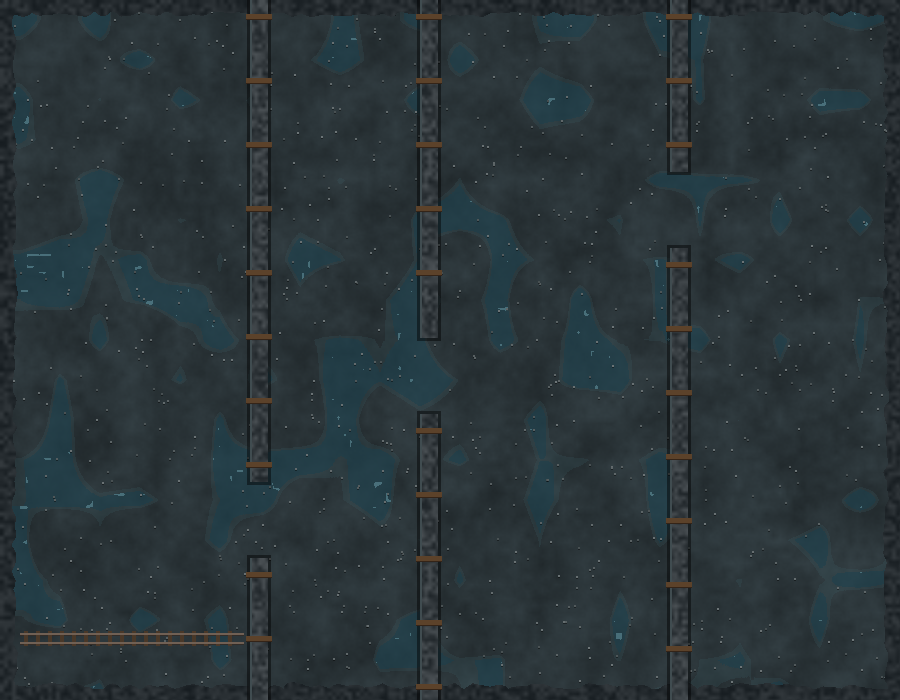
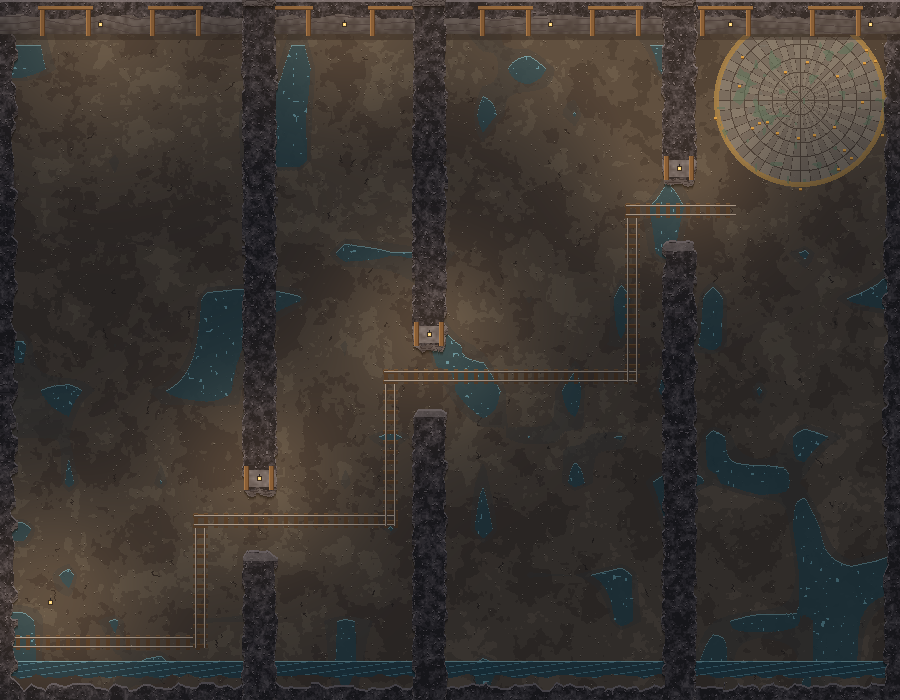
Шахта: скальные стены с крепью, рельсы, арена Стража, фонари, предметы с коллизией, полумрак; трава и блики воды больше не рисуются на мосту

diff --git a/tools/art/mine.py b/tools/art/mine.py
@@ -1,8 +1,10 @@
-"""Затопленная шахта: пол с лужами и рельсами, скальные перемычки с крепью, вход у Пристани (затоплен / открыт).
+"""Затопленная шахта: пол, скальные стены с крепью, рельсы, арена Стража, вход у Пристани.
 
 Запуск:  python tools/art/mine.py [--preview PATH]
 Геометрия берётся из scripts/adventure_sites.gd (MINE, MINE_WALLS, MINE_EXIT) — меняя её там, перегенерируй.
+Пишет: assets/custom/world/mine_floor.png, mine_gate.png и mine.json (фонари и предметы с коллизией).
 """
+import json
 import re
 import sys
 from pathlib import Path
@@ -15,71 +17,240 @@ OUT = ROOT / "assets" / "custom" / "world"
 SRC = (ROOT / "scripts" / "adventure_sites.gd").read_text(encoding="utf-8")
 
 
-def _rect(text):
+def _nums(text):
     return [float(v) for v in re.findall(r"[-\d.]+", text)]
 
 
-MINE = _rect(re.search(r"MINE := Rect2\(([^)]*)\)", SRC).group(1))
-WALLS = [_rect(m) for m in re.findall(r"Rect2\(([^)]*)\)", re.search(r"MINE_WALLS := \[(.*?)\]", SRC, re.S).group(1))]
-EXIT = _rect(re.search(r"MINE_EXIT := Vector2\(([^)]*)\)", SRC).group(1))
+MINE = _nums(re.search(r"MINE := Rect2\(([^)]*)\)", SRC).group(1))
+WALLS = [_nums(m) for m in re.findall(r"Rect2\(([^)]*)\)", re.search(r"MINE_WALLS := \[(.*?)\]", SRC, re.S).group(1))]
+EXIT = _nums(re.search(r"MINE_EXIT := Vector2\(([^)]*)\)", SRC).group(1))
+X0, Y0, W, H = [int(v) for v in MINE]
+TOP_FACE = 34                     # северная стена: верх скалы + освещённый откос (непроходимо, см. world_data.gd)
+ARENA = (3400, 300, 84)           # круг Колокольного Стража
+
+# Рельсы идут через проёмы перемычек: только прямые отрезки (в пикселях рельсы по диагонали выглядят плохо).
+RAIL = [(2612, 842), (2800, 842), (2800, 720), (2990, 720), (2990, 576), (3232, 576), (3232, 410), (3330, 410)]
+
+# Фонари: на северном откосе и над проёмами (мировые координаты; радиус свечения).
+LIGHTS = [(2700, 222, 70), (2944, 222, 60), (3150, 222, 66), (3330, 222, 60), (3470, 222, 60),
+          (2859, 676, 58), (3029, 532, 58), (3279, 366, 58), (2650, 800, 64)]
+
+# Предметы сцены (props): у стен и в углах, не на рельсах и не на постах врагов. r — радиус коллизии.
+PROPS = [
+    ("crate", 2628, 262, 10), ("barrel", 2652, 258, 9), ("cart", 2770, 300, 15), ("sacks", 2822, 268, 10),
+    ("log", 2690, 480, 11), ("rock", 2628, 620, 10), ("crate", 2830, 880, 10),
+    ("barrel", 2888, 262, 9), ("crate", 2996, 266, 10), ("sacks", 2890, 520, 10), ("rock", 2900, 872, 10),
+    ("crate", 3060, 262, 10), ("crate", 3083, 270, 10), ("barrel", 3246, 262, 9), ("log", 3205, 820, 11),
+    ("rock", 3060, 872, 10), ("pillar_broken", 3140, 720, 11),
+    ("pillar_broken", 3318, 560, 11), ("pillar_broken", 3478, 560, 11), ("barrel", 3312, 876, 9),
+    ("rock", 3474, 870, 10), ("sacks", 3480, 690, 10),
+]
 
 
 def noise(w, h, scale, seed):
-    """Сглаженный шум: случайная сетка, растянутая билинейно."""
+    """Сглаженный шум 0..1: случайная сетка, растянутая билинейно."""
     rng = np.random.default_rng(seed)
     gw, gh = int(w / scale) + 2, int(h / scale) + 2
     g = Image.fromarray((rng.random((gh, gw)) * 255).astype(np.uint8))
     return np.asarray(g.resize((int(gw * scale), int(gh * scale)), Image.BILINEAR), dtype=float)[:h, :w] / 255
 
 
-def floor():
-    x0, y0, w, h = [int(v) for v in MINE]
-    n = noise(w, h, 24, 1) * 0.6 + noise(w, h, 7, 2) * 0.3 + noise(w, h, 2, 3) * 0.1
-    base = np.array([44, 54, 58], float)
-    img = base[None, None, :] * (0.72 + 0.5 * n[..., None])
-    wet = noise(w, h, 40, 4)                                  # лужи: тёмная вода с бликом
-    pool = wet > 0.76
-    img[pool] = img[pool] * 0.45 + np.array([30, 70, 84]) * 0.55
-    edge = (wet > 0.72) & ~pool
-    img[edge] = img[edge] * 0.8 + np.array([60, 96, 104]) * 0.2
-    shine = pool & (noise(w, h, 6, 5) > 0.9)
-    img[shine] = img[shine] * 0.5 + np.array([110, 160, 172]) * 0.5
-    rng = np.random.default_rng(6)                            # щебень
-    for _ in range(900):
-        x, y = rng.integers(0, w - 3), rng.integers(0, h - 3)
-        c = rng.integers(70, 110)
-        img[y:y + 2, x:x + 2] = (c, c + 8, c + 10)
-        img[y + 2, x:x + 2] *= 0.6
-    rail_y = int(EXIT[1] - y0) + 18                           # рельсы от входа вглубь первой выработки
-    for ry in (rail_y, rail_y + 9):
-        img[ry:ry + 2, 20:int(WALLS[0][0] - x0) - 6] = (112, 96, 84)
-        img[ry + 2, 20:int(WALLS[0][0] - x0) - 6] = (50, 44, 40)
-    for sx in range(24, int(WALLS[0][0] - x0) - 10, 12):     # шпалы
-        img[rail_y - 2:rail_y + 13, sx:sx + 4] = (74, 56, 40)
-        img[rail_y:rail_y + 2, sx:sx + 4] = (112, 96, 84)
-        img[rail_y + 9:rail_y + 11, sx:sx + 4] = (112, 96, 84)
-    border = 10                                               # скальный край выработки
-    yy, xx = np.mgrid[0:h, 0:w]
-    dist = np.minimum.reduce([xx, yy, w - 1 - xx, h - 1 - yy]).astype(float)
-    rock = dist < border + noise(w, h, 9, 7) * 8
-    img[rock] = np.array([22, 28, 32]) + 30 * noise(w, h, 4, 8)[rock][:, None]
-    for wx, wy, ww, wh in WALLS:                              # перемычки: скала, по краям крепь
-        ax, ay = int(wx - x0), int(wy - y0)
+YY, XX = np.mgrid[0:H, 0:W]
+N1, N2, N3 = noise(W, H, 30, 1), noise(W, H, 8, 2), noise(W, H, 2.5, 3)
+
+
+def paint(img, mask, col, k=1.0):
+    img[mask] = img[mask] * (1 - k) + np.array(col, float) * k
+
+
+def ground():
+    """Утоптанная порода: тёплый серо-бурый тон, крупные пятна, мелкая крошка, трещины."""
+    n = N1 * 0.55 + N2 * 0.3 + N3 * 0.15
+    pal = [np.array(c, float) for c in [(56, 50, 48), (66, 60, 56), (76, 70, 64), (86, 80, 72)]]
+    band = np.clip((n * 4.4 - 0.9).astype(int), 0, 3)
+    img = np.zeros((H, W, 3))
+    for i, c in enumerate(pal):
+        img[band == i] = c
+    rng = np.random.default_rng(6)
+    for _ in range(140):                                     # трещины — короткие ломаные
+        x, y = rng.integers(20, W - 20), rng.integers(40, H - 20)
+        for _ in range(rng.integers(6, 16)):
+            x = int(np.clip(x + rng.integers(-1, 2), 0, W - 1))
+            y = int(np.clip(y + rng.integers(0, 2), 0, H - 1))
+            img[y, x] = (40, 36, 36)
+    for _ in range(2200):                                    # крошка с бликом
+        x, y = rng.integers(0, W - 2), rng.integers(0, H - 2)
+        c = rng.integers(88, 118)
+        img[y, x] = (c, c - 6, c - 12)
+        img[y + 1, x] = (46, 42, 40)
+    return img
+
+
+def puddles(img):
+    wet = noise(W, H, 46, 4)
+    pool = (wet > 0.8) & (YY > TOP_FACE + 10)
+    damp = (wet > 0.74) & ~pool
+    paint(img, damp, (52, 54, 56), 0.5)
+    paint(img, pool, (34, 62, 74), 0.85)
+    rim = pool & ~np.roll(pool, 1, 0)                        # светлая кромка сверху лужи
+    paint(img, rim, (110, 150, 160), 0.7)
+    paint(img, pool & (N3 > 0.86), (90, 140, 156), 0.8)
+    # сток вдоль южной стены — вода, из-за которой шахту и затопило
+    ch = (YY > H - 40) & (YY < H - 26 + (N2 * 6).astype(int))
+    paint(img, ch, (30, 58, 72), 0.9)
+    paint(img, ch & ~np.roll(ch, 1, 0), (120, 166, 176), 0.8)
+    paint(img, ch & (np.sin(XX / 7.0 + YY) > 0.92), (70, 116, 134), 0.8)
+
+
+def rails(img):
+    for (ax, ay), (bx, by) in zip(RAIL, RAIL[1:]):
+        ax, ay, bx, by = ax - X0, ay - Y0, bx - X0, by - Y0
+        if ay == by:                                         # горизонтальный путь: шпалы поперёк
+            xa, xb = sorted((ax, bx))
+            for sx in range(xa - 6, xb + 6, 10):
+                img[ay - 7:ay + 8, sx:sx + 4] = (70, 52, 38)
+                img[ay - 7, sx:sx + 4] = (96, 72, 50)
+            for ry in (ay - 5, ay + 4):
+                img[ry, xa - 6:xb + 6] = (150, 140, 132)
+                img[ry + 1, xa - 6:xb + 6] = (60, 54, 52)
+        else:                                                # вертикальный путь
+            ya, yb = sorted((ay, by))
+            for sy in range(ya - 6, yb + 6, 10):
+                img[sy:sy + 4, ax - 7:ax + 8] = (70, 52, 38)
+                img[sy, ax - 7:ax + 8] = (96, 72, 50)
+            for rx in (ax - 5, ax + 4):
+                img[ya - 6:yb + 6, rx] = (150, 140, 132)
+                img[ya - 6:yb + 6, rx + 1] = (60, 54, 52)
+
+
+def arena(img):
+    cx, cy, r = ARENA[0] - X0, ARENA[1] - Y0, ARENA[2]
+    d = np.hypot(XX - cx, YY - cy)
+    ang = np.arctan2(YY - cy, XX - cx)
+    ring = (d < r) & (YY > TOP_FACE + 2)
+    tiles = (((d // 14).astype(int) + ((ang * 24 / np.pi) // 1).astype(int)) % 2) == 0
+    paint(img, ring, (92, 88, 86), 0.9)
+    paint(img, ring & tiles, (102, 98, 94), 0.9)
+    seams = ring & ((np.abs((d % 14) - 0) < 1) | (np.abs(((ang * 24 / np.pi) % 1)) < 0.06))
+    paint(img, seams, (52, 48, 48), 0.9)
+    paint(img, (np.abs(d - r) < 2.5) & (YY > TOP_FACE), (130, 104, 62), 0.9)   # бронзовый обод
+    paint(img, ring & (N2 > 0.78), (66, 92, 80), 0.6)        # патина и мох
+    rng = np.random.default_rng(12)
+    for _ in range(26):                                      # осколки колокола
+        a, rr = rng.random() * np.pi * 2, r * (0.3 + rng.random() * 0.8)
+        x, y = int(cx + np.cos(a) * rr), int(cy + np.sin(a) * rr)
+        if y > TOP_FACE + 4:
+            img[y:y + 2, x:x + 3] = (176, 130, 60)
+            img[y + 2, x:x + 3] = (90, 62, 32)
+
+
+def rock_mask(x0, y0, x1, y1, seed, grow=5):
+    """Неровная скальная масса вокруг прямоугольника."""
+    jag = (noise(W, H, 5, seed) * grow * 1.6).astype(int)
+    dx = np.maximum(np.maximum(x0 - XX, XX - x1), 0)
+    dy = np.maximum(np.maximum(y0 - YY, YY - y1), 0)
+    return np.hypot(dx, dy) <= grow - 2 + jag * 0.6
+
+
+def rock(img, mask, seed):
+    """Скала сверху: тёмная, с бликом по северной кромке и тенью по южной."""
+    n = noise(W, H, 5, seed) * 0.55 + noise(W, H, 1.6, seed + 1) * 0.45
+    pal = [(30, 30, 36), (42, 41, 48), (55, 53, 60), (70, 67, 74)]
+    band = np.clip(((n - 0.25) * 6).astype(int), 0, 3)
+    for i, c in enumerate(pal):
+        img[mask & (band == i)] = c
+    hi = mask & (noise(W, H, 1.2, seed + 2) > 0.86)          # светлые грани камней
+    img[hi] = (88, 85, 92)
+    img[np.roll(hi, 1, 0) & mask & ~hi] = (26, 25, 30)
+    paint(img, mask & ~np.roll(mask, 2, 0), (104, 100, 108), 0.8)   # кромка, на которую падает свет
+    # южный откос: скала видна сбоку, полосы пород, внизу тень на пол
+    face = np.zeros_like(mask)
+    for k in range(1, 7):
+        face |= np.roll(mask, k, 0)
+    face &= ~mask
+    fn = noise(W, H, 3, seed + 4)
+    img[face] = np.array([58, 54, 58], float) + fn[face][:, None] * 26
+    paint(img, face & ((YY + (fn * 4).astype(int)) % 3 == 0), (40, 37, 42), 0.8)
+    paint(img, face & ~np.roll(face | mask, 1, 0), (92, 88, 94), 0.7)
+    for k in range(1, 5):                                    # тень на пол под откосом
+        sh = ~(mask | face) & np.roll(face, k, 0)
+        img[sh] *= 0.7 + k * 0.06
+
+
+def timber(img, x, y_top, y_bot):
+    img[y_top:y_bot, x:x + 5] = (104, 74, 48)
+    img[y_top:y_bot, x + 4] = (64, 44, 30)
+    img[y_top:y_bot, x] = (134, 98, 64)
+
+
+def lantern(img, x, y):
+    img[y - 2:y, x:x + 1] = (40, 36, 36)
+    img[y:y + 5, x - 2:x + 3] = (60, 46, 34)
+    img[y + 1:y + 4, x - 1:x + 2] = (255, 214, 120)
+    img[y + 2, x] = (255, 246, 200)
+
+
+def walls(img):
+    # внешняя скала: по краям, неровно
+    edge = np.minimum.reduce([XX, W - 1 - XX, H - 1 - YY]) < 10 + (noise(W, H, 7, 20) * 9).astype(int)
+    rock(img, edge, 21)
+    # северная стена: верх скалы и освещённый откос с пластами породы
+    top = YY < 14 + (noise(W, H, 9, 22)[0] * 6).astype(int)[None, :].repeat(H, 0)
+    face = (YY < TOP_FACE) & ~top
+    rock(img, top, 23)
+    fn = noise(W, H, 4, 24)
+    strata = ((YY + (N1 * 10).astype(int)) % 7 == 0)
+    fc = np.array([70, 66, 70], float) + fn[..., None] * 34
+    fc = fc * (1.0 - (YY / TOP_FACE)[..., None] * 0.35)      # откос темнеет книзу
+    img[face] = fc[face]
+    paint(img, face & strata, (52, 48, 54), 0.8)
+    paint(img, (YY >= TOP_FACE) & (YY < TOP_FACE + 6), (30, 28, 30), 0.45)   # тень у подножия
+    for x in range(40, W - 30, 110):                          # крепь: стойки и верхняки
+        timber(img, x, 8, TOP_FACE + 2)
+        timber(img, x + 46, 8, TOP_FACE + 2)
+        img[6:10, x - 2:x + 53] = (118, 86, 56)
+        img[9, x - 2:x + 53] = (66, 46, 32)
+    for wx, wy, ww, wh in WALLS:                              # перемычки между выработками
+        ax, ay = int(wx - X0), int(wy - Y0)
         bx, by = ax + int(ww), ay + int(wh)
-        sl = (slice(max(0, ay - 3), min(h, by + 3)), slice(max(0, ax - 3), min(w, bx + 3)))
-        img[sl] = img[sl] * 0.55                              # тень от стены
-        r = noise(int(ww), int(wh), 4, int(wx))
-        img[ay:by, ax:bx] = np.array([30, 36, 40]) + 46 * r[..., None]
-        img[ay:by, ax:ax + 2] = (64, 76, 80)                  # грань, на которую падает свет
-        for py in range(ay + 14, by - 6, 64):                 # стойки крепи
-            img[py:py + 6, ax - 4:bx + 4] = (92, 66, 42)
-            img[py + 5, ax - 4:bx + 4] = (52, 36, 24)
-    a = np.full((h, w, 1), 255.0)
+        m = rock_mask(ax, ay, bx, by, int(wx + wy), grow=6)
+        rock(img, m, int(wx) + 3)
+        if by < H - 12:                                       # торец над проёмом: откос с крепью и фонарём
+            fy = by - 12
+            fm = m & (YY >= fy) & (YY <= by + 4)
+            img[fm] = np.array([72, 68, 72]) + noise(W, H, 3, ay)[fm][:, None] * 30
+            timber(img, ax - 6, fy - 4, by + 8)
+            timber(img, bx + 1, fy - 4, by + 8)
+        if ay > Y0 - Y0 + 12:                                 # нижний сегмент: верхний торец светлее
+            paint(img, m & (YY < ay + 3) & (YY > ay - 6), (98, 94, 100), 0.6)
+
+
+def light(img):
+    """Запечённый свет фонарей: пол у фонарей теплее и светлее, между ними — темнее."""
+    acc = np.zeros((H, W))
+    for x, y, r in LIGHTS:
+        acc += np.exp(-((XX - (x - X0)) ** 2 + (YY - (y - Y0)) ** 2) / (2 * (r * 1.2) ** 2))
+    acc = np.clip(acc, 0, 1)
+    k = 0.74 + 0.4 * acc
+    img *= k[..., None]
+    img += (acc[..., None] * np.array([22, 12, 0]))           # тёплый оттенок
+    for x, y, _ in LIGHTS:
+        lantern(img, x - X0, y - Y0)
+
+
+def floor():
+    img = ground()
+    puddles(img)
+    arena(img)
+    rails(img)
+    walls(img)
+    light(img)
+    a = np.full((H, W, 1), 255.0)
     return Image.fromarray(np.concatenate([np.clip(img, 0, 255), a], 2).astype(np.uint8), "RGBA")
 
 
 def gate(open_: bool):
-    """Штольня в склоне с деревянной крепью; закрытая — по балку в воде."""
+    """Штольня в склоне с деревянной крепью; закрытая — по верхняк в воде."""
     w, h = 44, 34
     im = np.zeros((h, w, 4), float)
     yy, xx = np.mgrid[0:h, 0:w]
@@ -92,8 +263,7 @@ def gate(open_: bool):
         water = hole & (yy >= 17)
         im[water] = (40, 96, 120, 255)
         im[water & (yy == 17)] = (130, 190, 205, 255)
-        rip = water & (n > 0.75)
-        im[rip] = (80, 140, 160, 255)
+        im[water & (n > 0.75)] = (80, 140, 160, 255)
     for x0 in (12, 31):                                       # стойки и верхняк
         im[11:32, x0:x0 + 2] = (110, 78, 48, 255)
         im[11:32, x0 + 1] = (74, 52, 32, 255)
@@ -112,11 +282,14 @@ def main():
     g.alpha_composite(gate(False), (0, 0))
     g.alpha_composite(gate(True), (44, 0))
     g.save(OUT / "mine_gate.png")
+    meta = {"top_face": TOP_FACE, "lights": [[x, y, r] for x, y, r in LIGHTS],
+            "props": [{"k": k, "x": x, "y": y, "r": r} for k, x, y, r in PROPS]}
+    (OUT / "mine.json").write_text(json.dumps(meta), encoding="utf-8")
     if "--preview" in sys.argv:
         path = sys.argv[sys.argv.index("--preview") + 1]
         f.save(path)
         g.resize((88 * 6, 34 * 6), Image.NEAREST).save(path.replace(".png", "_gate.png"))
-    print("mine", f.size, g.size)
+    print("mine", f.size, g.size, len(PROPS), "props")
 
 
 if __name__ == "__main__":

diff --git a/tools/art/ground_clean.py b/tools/art/ground_clean.py
@@ -209,7 +209,7 @@ def render():
             put_decal(img, x, y, FLOWER, {"c": fc[0], "d": fc[1]})
         else:
             put_decal(img, x, y, PEBBLE, pcol)
-    ys, xs = np.nonzero(road & ~plaza & (dp >= half - 3))              # grass tufts creeping over road edges
+    ys, xs = np.nonzero(road & ~plaza & ~dilate(bridge | water, 3) & (dp >= half - 3))   # трава по краям дороги, но не на мосту
     for i in rnd.sample(range(len(xs)), min(len(xs), 2200)):
         put_decal(img, int(xs[i]) - 2, int(ys[i]) - 1, TUFT if i % 2 else TUFT2, tcol)
     for _ in range(900):                                                 # pebbles along roads

diff --git a/tools/art/world.py b/tools/art/world.py
@@ -397,7 +397,8 @@ def build(out_dir):
     import ground_clean
     img, river_dist = ground_clean.render()
     img.save(out_dir / "ground.png", optimize=True)
-    mask = (river_dist < RIVER_W / 2 - 2)
+    yy = np.arange(H)[:, None]
+    mask = (river_dist < RIVER_W / 2 - 2) & ~((yy >= BRIDGE_Y[0]) & (yy < BRIDGE_Y[1]))   # блики воды не ложатся на мост
     Image.fromarray((mask * 255).astype(np.uint8), "L").save(out_dir / "water_mask.png")
     lay = layout(river_dist)
     (out_dir / "layout.json").write_text(json.dumps(lay, ensure_ascii=False), encoding="utf-8")
